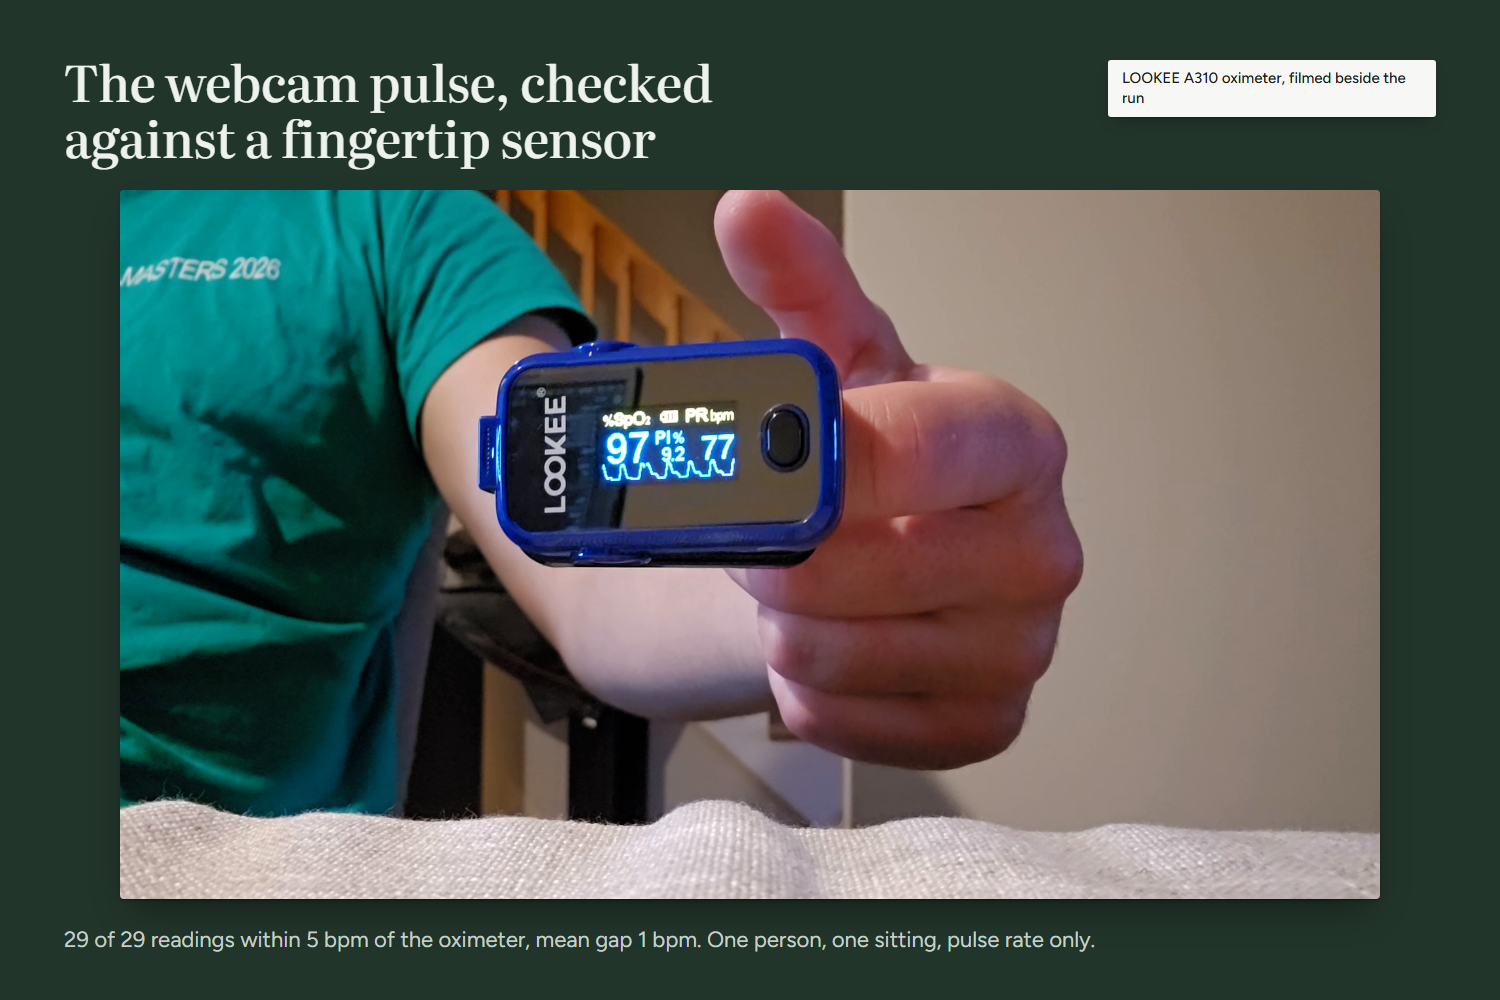
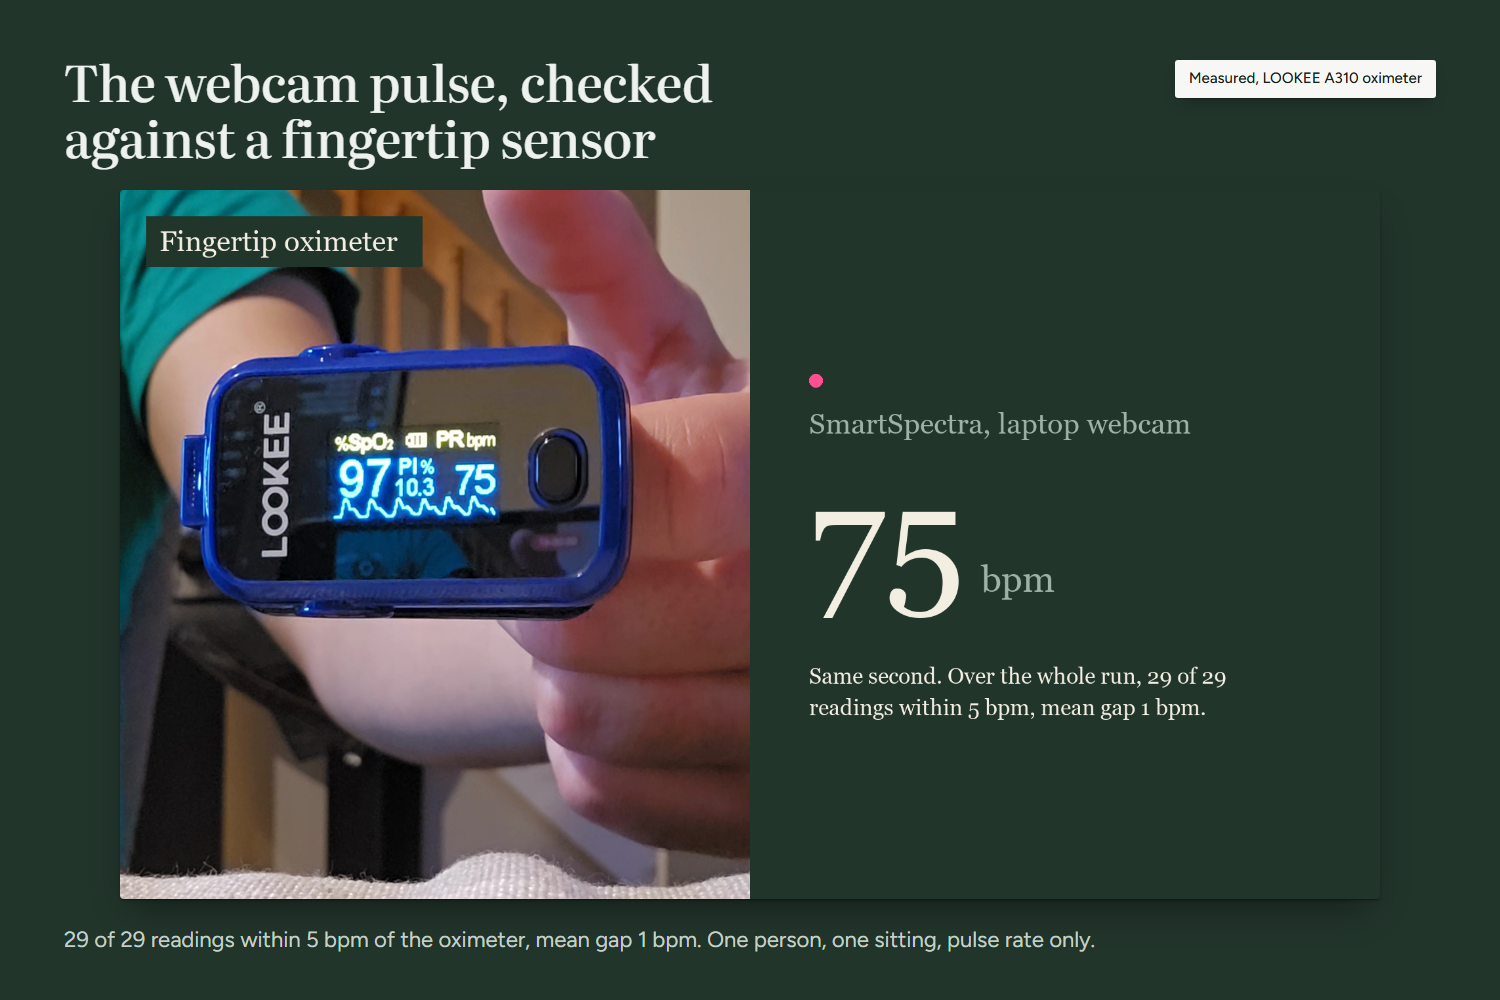
Preview images for the submission in the demo's order; pulse slide shows the oximeter beside the webcam reading at the same second, with the whole run's result

diff --git a/tools/preview.py b/tools/preview.py
@@ -1,0 +1,44 @@
+"""Submission preview images: the slides from tools/gallery.py, in the demo video's order,
+copied to broll/preview/ as 1-*.png ... 8-*.png with captions.md beside them.
+
+    py tools/gallery.py   # renders the slides and their captions into post/img/
+    py tools/preview.py
+
+Captions are taken from post/img/captions.md (numbers come from the results files there), and
+captions.md here holds only the caption text, one fenced block per image. Lengths are checked
+and printed to this terminal only.
+"""
+import re
+import shutil
+from pathlib import Path
+
+from PIL import Image
+
+ROOT = Path(__file__).resolve().parent.parent
+SRC = ROOT / "post" / "img"
+OUT = ROOT / "broll" / "preview"
+
+# the demo's order: promise, consent, reading, refusal, marks, graded result, pulse check, Word
+ORDER = ["1-home", "2-consent", "3-read", "6-refusal", "4-marks", "5-result", "5b-pulse", "7-word"]
+NAMES = ["home", "consent", "read", "refusal", "marks", "result", "pulse", "word"]
+
+caps = dict(re.findall(r"## (\S+)\.png\s+```\n(.+?)\n```", (SRC / "captions.md").read_text(encoding="utf-8")))
+assert len(ORDER) <= 8
+
+if OUT.exists():
+    shutil.rmtree(OUT)
+OUT.mkdir(parents=True)
+blocks = ["# Preview images", "", "One caption per image, in upload order. Copy the block contents only.", ""]
+for i, (src, name) in enumerate(zip(ORDER, NAMES), 1):
+    img = SRC / f"{src}.png"
+    w, h = Image.open(img).size
+    size = img.stat().st_size
+    cap = caps[src]
+    ok = abs(w / h - 1.5) < 0.01 and size <= 5 * 1024 * 1024 and len(cap) <= 140 and "—" not in cap
+    dest = OUT / f"{i}-{name}.png"
+    shutil.copy(img, dest)
+    print(f"  {'ok ' if ok else 'BAD'} {dest.name:16} {w}x{h} {size // 1024:5} KB  caption {len(cap)}/140")
+    assert ok, dest.name
+    blocks += [f"## {dest.name}", "", "```", cap, "```", ""]
+(OUT / "captions.md").write_text("\n".join(blocks), encoding="utf-8")
+print(f"{len(ORDER)} images and captions.md in {OUT.relative_to(ROOT)}")

diff --git a/tools/gallery.py b/tools/gallery.py
@@ -128,7 +128,7 @@ def slides(s):
         ("4-marks", "marks", "The reader marks their own moments first", "Unskipped, marks screen",
          "Before any result is shown, the reader marks what got them and what lost them. Those marks are the grader."),
         ("5-result", "result", result_head, src, result_cap),
-        ("5b-pulse", "pulse", "The webcam pulse, checked against a fingertip sensor", "LOOKEE A310 oximeter, filmed beside the run", pulse_cap),
+        ("5b-pulse", "pulse", "The webcam pulse, checked against a fingertip sensor", "Measured, LOOKEE A310 oximeter", pulse_cap),
         ("6-refusal", "refusal", "When it cannot tell, it says so", "Recorded session results/sessions/controls2.json, scored by src/score.js", refusal_cap),
         ("7-word", "word", "The notes land in the writer's own manuscript", "Exported .docx, opened in Microsoft Word",
          "Every note the reader kept becomes a comment on its paragraph, signed with the reader's name."),
